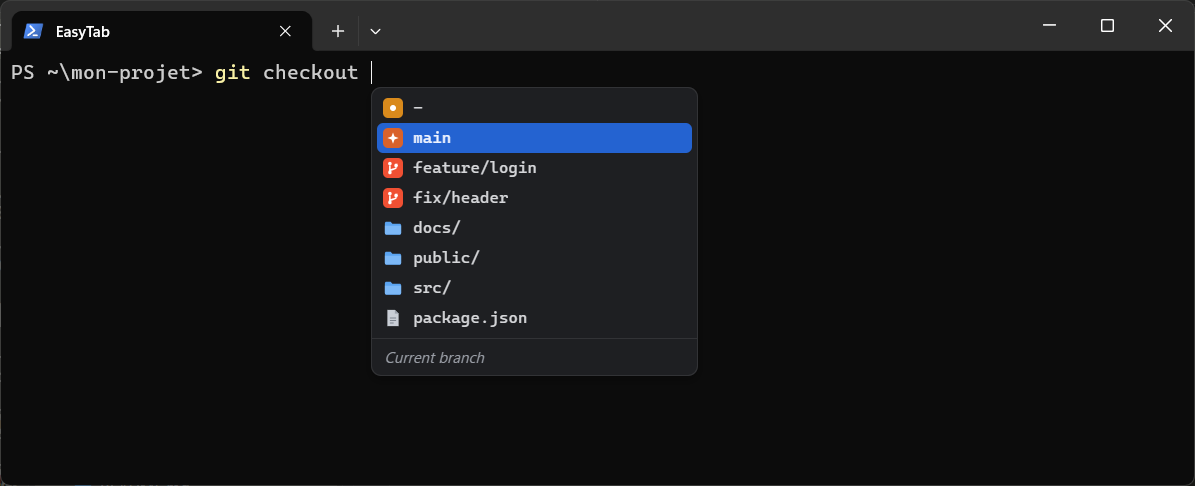
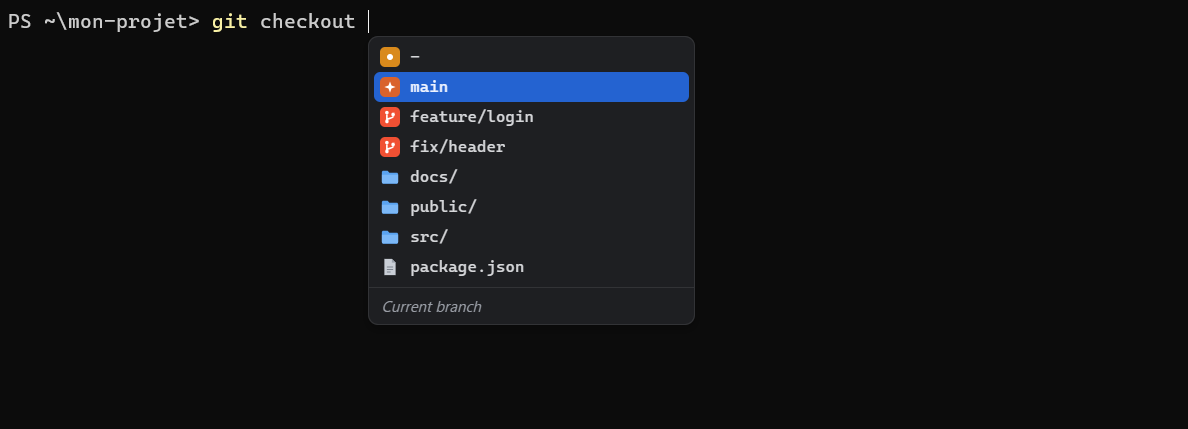
Dépôt public : guide à jour et chemins courts dans les messages (#35)
* Guide : retire le passage sur le dépôt privé

Le dépôt est public : les liens d'installation du README marchent sans
identifiants.

Claude-Session: https://claude.ai/code/session_01NEcpAJwGx2vUX7UR1SJhhK

* easytab : chemins affichés avec ~ à la place du dossier personnel

install, uninstall, doctor et config affichent ~/.easytab/bin plutôt que
C:\Users\nom\.easytab\bin : messages plus courts, sans le nom
d'utilisateur (utile pour les captures).

Claude-Session: https://claude.ai/code/session_01NEcpAJwGx2vUX7UR1SJhhK

* README : capture et GIF rognés

Claude-Session: https://claude.ai/code/session_01NEcpAJwGx2vUX7UR1SJhhK

---------

diff --git a/crates/easytab-cli/src/main.rs b/crates/easytab-cli/src/main.rs
@@ -178,12 +178,12 @@ fn install(shell: Shell) -> Result<()> {
         println!(
             "EasyTab est {} dans {}",
             if updated { "mis à jour" } else { "installé" },
-            path.display()
+            short(&path)
         );
     }
     println!(
         "Programmes dans {}. Ouvre un nouveau terminal pour activer EasyTab.",
-        exe.parent().unwrap_or(&exe).display()
+        short(exe.parent().unwrap_or(&exe))
     );
     Ok(())
 }
@@ -262,11 +262,11 @@ fn uninstall(shell: Shell) -> Result<()> {
     for path in shell.rc_files()? {
         let content = read_or_empty(&path)?;
         if !rc::has_block(&content) {
-            println!("EasyTab n'est pas installé dans {}", path.display());
+            println!("EasyTab n'est pas installé dans {}", short(&path));
             continue;
         }
         write_config(shell, &path, &rc::remove_blocks(&content))?;
-        println!("EasyTab est retiré de {}", path.display());
+        println!("EasyTab est retiré de {}", short(&path));
     }
     Ok(())
 }
@@ -283,7 +283,7 @@ fn doctor() -> Result<()> {
     println!(
         "{} wrapper easytab-term : {}",
         mark(term_found),
-        term.display()
+        short(&term)
     );
     if cfg!(any(windows, target_os = "macos", target_os = "linux")) {
         let overlay =
@@ -292,7 +292,7 @@ fn doctor() -> Result<()> {
             "{} fenêtre flottante : {}",
             mark(overlay.is_file()),
             if overlay.is_file() {
-                overlay.display().to_string()
+                short(&overlay)
             } else {
                 "absente, la liste s'affiche dans le terminal".to_string()
             }
@@ -302,7 +302,7 @@ fn doctor() -> Result<()> {
         let mut installed_in = Vec::new();
         for path in shell.rc_files()? {
             if rc::has_block(&read_or_empty(&path)?) {
-                installed_in.push(path.display().to_string());
+                installed_in.push(short(&path));
             }
         }
         println!(
@@ -332,7 +332,7 @@ fn doctor() -> Result<()> {
 /// État du fichier de réglages, pour `doctor` et `config`.
 fn config_status(path: &Path) -> (bool, String) {
     match config::Config::read(path) {
-        Ok(Some(_)) => (true, path.display().to_string()),
+        Ok(Some(_)) => (true, short(path)),
         Ok(None) => (
             true,
             "par défaut (easytab config pour les changer)".to_string(),
@@ -341,7 +341,7 @@ fn config_status(path: &Path) -> (bool, String) {
             false,
             format!(
                 "{} est invalide, réglages par défaut utilisés :\n     {}",
-                path.display(),
+                short(path),
                 error.trim().replace('\n', "\n     ")
             ),
         ),
@@ -358,9 +358,9 @@ fn edit_config() -> Result<()> {
         }
         fs::write(&path, config::TEMPLATE)
             .with_context(|| format!("écriture de {}", path.display()))?;
-        println!("Fichier de réglages créé : {}", path.display());
+        println!("Fichier de réglages créé : {}", short(&path));
     } else {
-        println!("Fichier de réglages : {}", path.display());
+        println!("Fichier de réglages : {}", short(&path));
     }
     let (ok, status) = config_status(&path);
     if !ok {
@@ -421,5 +421,43 @@ fn mark(ok: bool) -> &'static str {
         "[ok]"
     } else {
         "[--]"
+    }
+}
+
+/// Chemin à afficher : `~` à la place du dossier personnel, pour des messages
+/// plus courts qui ne montrent pas le nom d'utilisateur.
+fn short(path: &Path) -> String {
+    match dirs::home_dir() {
+        Some(home) => short_in(path, &home),
+        None => path.display().to_string(),
+    }
+}
+
+fn short_in(path: &Path, home: &Path) -> String {
+    match path.strip_prefix(home) {
+        Ok(rest) if rest.as_os_str().is_empty() => "~".to_string(),
+        Ok(rest) => format!("~{}{}", std::path::MAIN_SEPARATOR, rest.display()),
+        Err(_) => path.display().to_string(),
+    }
+}
+
+#[cfg(test)]
+mod tests {
+    use super::*;
+
+    #[test]
+    fn short_replaces_home_with_tilde() {
+        let home = Path::new("/home/adam");
+        let sep = std::path::MAIN_SEPARATOR;
+        assert_eq!(
+            short_in(&home.join(".easytab").join("bin"), home),
+            format!("~{sep}.easytab{sep}bin")
+        );
+        assert_eq!(short_in(home, home), "~");
+        assert_eq!(short_in(Path::new("/etc/profile"), home), "/etc/profile");
+        assert_eq!(
+            short_in(Path::new("/home/adamx/.bashrc"), home),
+            "/home/adamx/.bashrc"
+        );
     }
 }

diff --git a/docs/guide.md b/docs/guide.md
@@ -153,19 +153,6 @@ Relancer la même commande met à jour ; `easytab update` aussi, pour les shells
 Les anciennes versions mises de côté par une mise à jour (`*.old-…` dans `~/.easytab/bin`) sont
 effacées au lancement suivant d'un terminal.
 
-Tant que le dépôt est privé, les liens `releases/latest/download/…` répondent 404 sans connexion
-à GitHub. Lance alors le script depuis un clone du dépôt : il télécharge la version publiée avec
-les identifiants GitHub que git utilise déjà (ou `GITHUB_TOKEN`, ou GitHub CLI). `easytab update`
-fait de même.
-
-```sh
-sh scripts/install.sh          # Linux, macOS
-```
-
-```powershell
-powershell -ExecutionPolicy Bypass -File scripts\install.ps1   # Windows
-```
-
 Shells pris en charge : zsh, bash et PowerShell (7 et Windows PowerShell 5), et Git Bash sous
 Windows, dans Windows Terminal ou le terminal de VS Code. Dans la fenêtre « Git Bash » par défaut
 (mintty), qui ne fournit pas de console aux programmes Windows, EasyTab passe par `winpty`, livré
